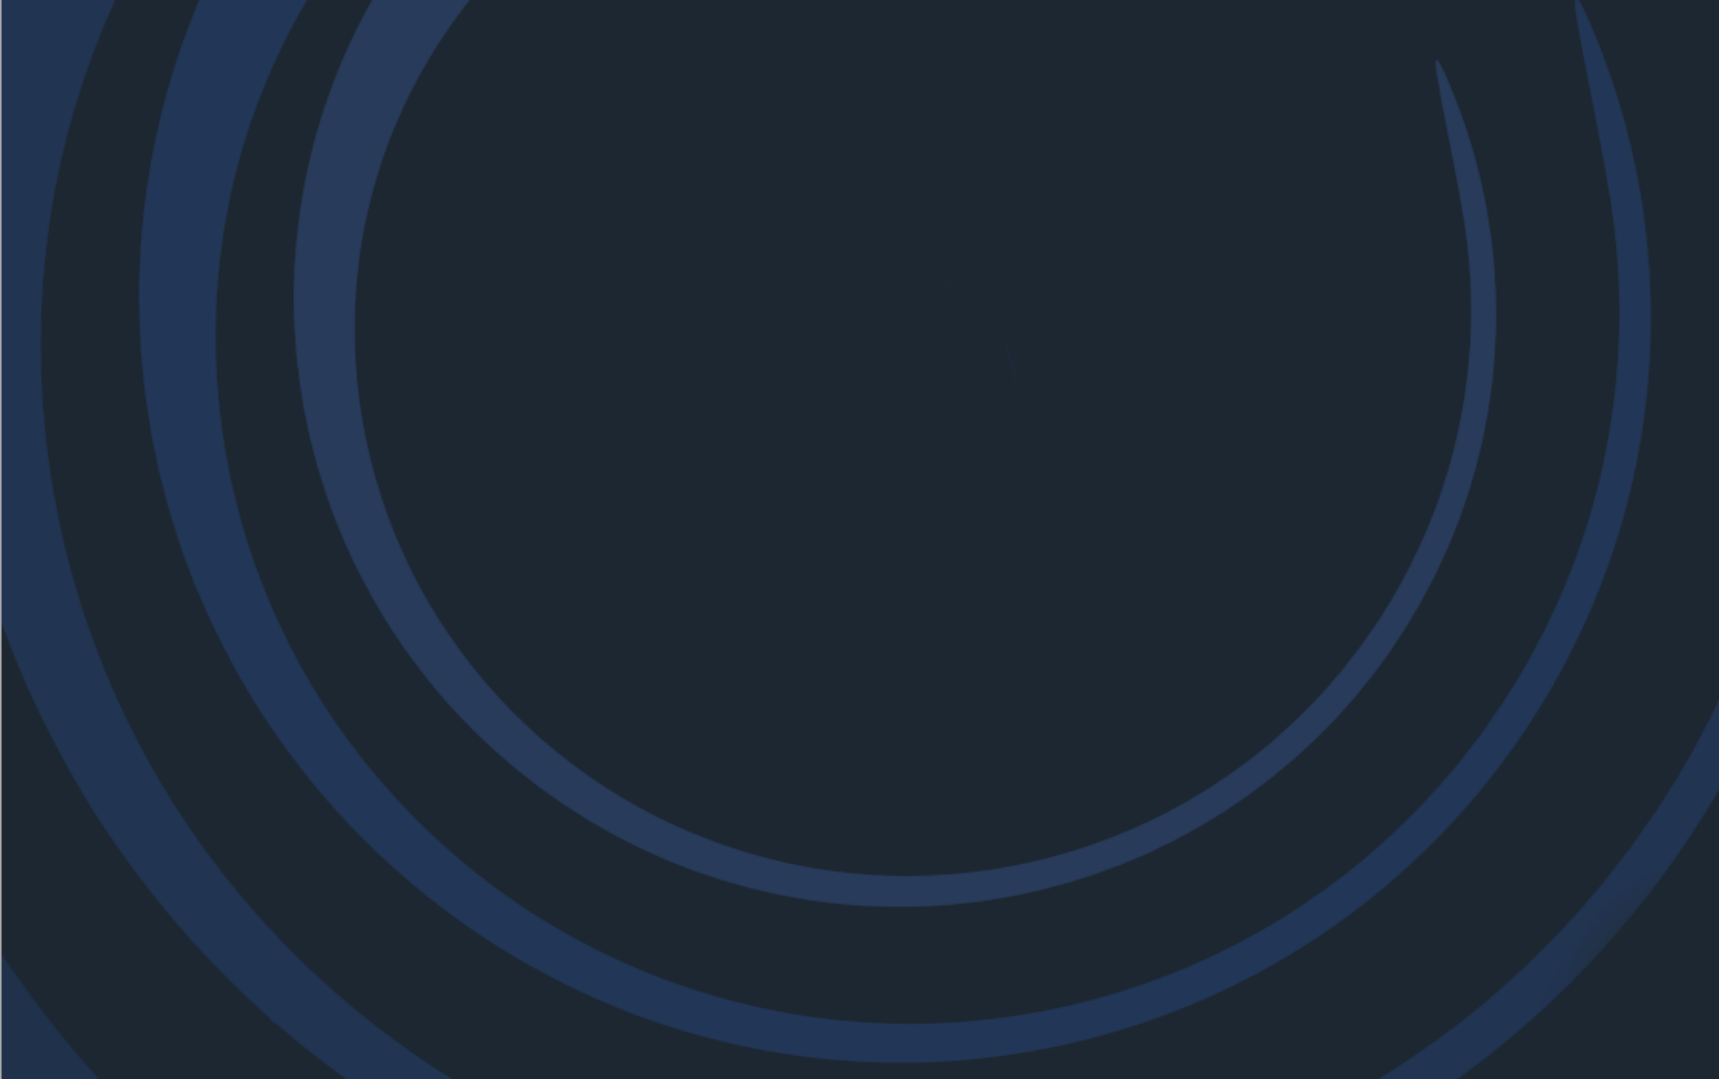
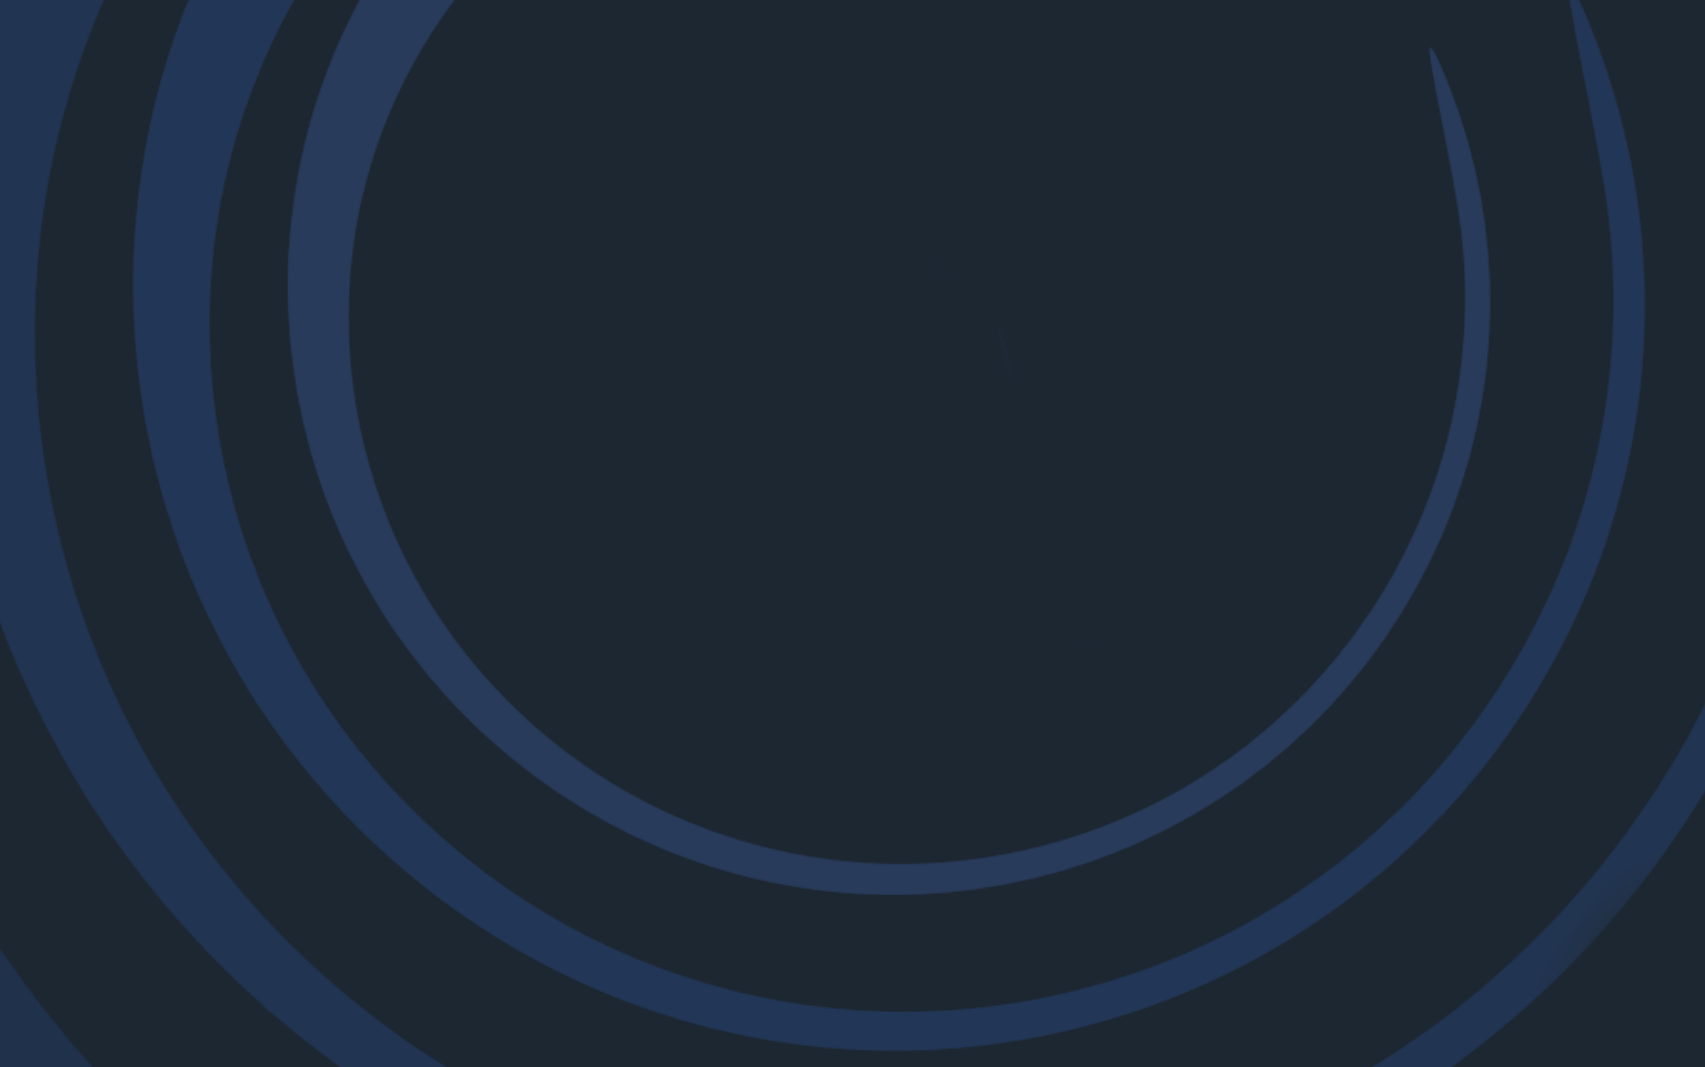
background change

diff --git a/public/client/style.css b/public/client/style.css
@@ -50,18 +50,14 @@ body {
     font-family: "condensed-medium";
     font-weight: 400;
     line-height: 1.3;
-    color: #808080;
-    background: url(/img/bg/1.jpg);
-    background-attachment: fixed;
-    background-size: cover;
+    color: #dfdfdf;
     overflow-x: hidden;
     scroll-behavior: smooth;
     font-size: 16px;
     line-height: 25px;
-}
-
-section {
-    background-color: #fff;
+    background: url(/img/bg/main.png) no-repeat;
+    background-size: cover;
+    background-attachment: fixed;
 }
 
 p {
@@ -210,7 +206,7 @@ img {
 
 .main-title {
     font-size: 40px;
-    color: #231f20;
+    color: #ffffff;
     position: relative;
     margin-bottom: 50px;
 }
@@ -306,8 +302,6 @@ img {
 }
 
 .homePage {
-    background: url(/img/bg/main.png);
-    background-attachment: fixed;
     color: #fff;
 }
 .homePage section {
@@ -742,6 +736,10 @@ img {
     padding: 0;
 }
 
+.homePage .about_home .main-title {
+    color: black;
+}
+
 .about_home .wrapper {
     justify-content: space-between;
 }
@@ -756,6 +754,9 @@ img {
 .team_home {
     padding-top: 26px;
     padding-bottom: 150px;
+    background: url(/img/bg/3.png) no-repeat;
+    background-position: center;
+    background-size: cover;
 }
 
 .team_home .team_member {
@@ -868,7 +869,17 @@ img {
 #footer {
     padding-top: 140px;
     padding-bottom: 50px;
-    background: rgba(0, 0, 0, 0.7);
+    background-image: url(/img/bg/1.jpg);
+    background-size: cover;
+    background-attachment: fixed;
+    position: relative;
+}
+#footer::after {
+    left: 0;
+    top: 0;
+    width: 100%;
+    height: 100%;
+    background-color: rgba(0, 0, 0, 0.7);
 }
 
 #footer .title {
@@ -898,6 +909,8 @@ img {
 
 #footer .wrapper {
     justify-content: space-between;
+    position: relative;
+    z-index: 100;
 }
 
 #footer .nav {
@@ -982,6 +995,8 @@ img {
     justify-content: center;
     margin-left: 344px;
     margin-top: 60px;
+    position: relative;
+    z-index: 100;
 }
 
 #footer .insite img {
@@ -1017,7 +1032,7 @@ img {
 }
 
 #page_path .pp_wrapper {
-    border-bottom: 0.5px solid #231f205d;
+    border-bottom: 0.5px solid #bbb8b95d;
     padding-bottom: 11px;
 }
 
@@ -1267,9 +1282,9 @@ img {
 }
 
 .gap.about {
-    background: #fff;
+    /* background: #fff; */
     height: 66px;
-    widows: 100%;
+    width: 100%;
 }
 
 /* team page */
@@ -1379,7 +1394,6 @@ img {
 }
 
 .contact_page .title {
-    color: #2d2d2d;
     margin-bottom: 15px;
 }
 
@@ -1429,7 +1443,6 @@ img {
 }
 
 .contact_page .info .info_item .font18 {
-    color: #231f20;
     margin-bottom: 6px;
     margin-top: 25px;
 }

diff --git a/resources/views/client/pages/blog/index.blade.php b/resources/views/client/pages/blog/index.blade.php
@@ -14,7 +14,7 @@
                 <span>|</span> @lang('client.news')
             </div>
             <form action="{{locale_route('client.blog.index')}}" id="news-filter-form"
-                  class="filter dark-text flex center">
+                  class="filter  flex center">
 
                 <div style="opacity: 0.3">@lang('client.filter_by'):</div>
                 <div class="font20">
@@ -44,7 +44,7 @@
                         </div>
                     @endif
                     <div class="text">
-                        <div class="title dark-text bold uppercase font18">
+                        <div class="title  bold uppercase font18">
                             {{$blog->title}}
                         </div>
                         <div class="light-text">
@@ -57,7 +57,7 @@
                                 <div class="light-text font18">{{$blog->category->title}}</div>
                             </div>
                             <a href="{{locale_route('client.blog.show',$blog->id)}}"
-                               class="dark-text uppercase font18 transition3 see_more">
+                               class=" uppercase font18 transition3 see_more">
                                 @lang('client.see_more')
                             </a>
                         </div>

diff --git a/resources/views/client/pages/blog/show.blade.php b/resources/views/client/pages/blog/show.blade.php
@@ -17,7 +17,7 @@
     <section class="single_news">
         <div class="wrapper pad48 flex">
             <div class="single_news_content">
-                <div class="font25 bold dark-text uppercase">
+                <div class="font25 bold  uppercase">
                     {{$blog->title}}
                 </div>
                 <div class="flex font18 light-text">
@@ -37,7 +37,7 @@
                 </a>
             </div>
             <div class="other_news">
-                <div class="font25 bold dark-text uppercase">@lang('client.other_news')</div>
+                <div class="font25 bold  uppercase">@lang('client.other_news')</div>
                 @foreach($otherBlogs as $blog)
                     <div class="news_item flex center">
                         @if($blog->file)
@@ -48,7 +48,7 @@
                             </div>
                         @endif
                         <div class="text">
-                            <div class="title dark-text bold uppercase font18">
+                            <div class="title  bold uppercase font18">
                                 {{$blog->title}}
                             </div>
                             <div class="light-text">

diff --git a/resources/views/client/pages/team/index.blade.php b/resources/views/client/pages/team/index.blade.php
@@ -24,7 +24,7 @@
                 </div>
             </div>
             @foreach($professions as $profession)
-                <div class="title font50 bold dark-text">{{ $profession->title }}</div>
+                <div class="title font50 bold">{{ $profession->title }}</div>
                 <div class="font18 light-text text-07"> {!! $profession->description !!}
                 </div>
                 {{--                @if($profession->team)--}}

diff --git a/resources/views/client/pages/home/index.blade.php b/resources/views/client/pages/home/index.blade.php
@@ -164,7 +164,7 @@
             </div>
         </div>
     </section>
-    <section class="about_home projects_home">
+    <section class="about_home projects_home dark-text">
         <div class="wrapper pad80 flex center">
             <div class="content">
                 <div class="main-title bold" style="text-align: left">@lang('client.about_us')</div>
